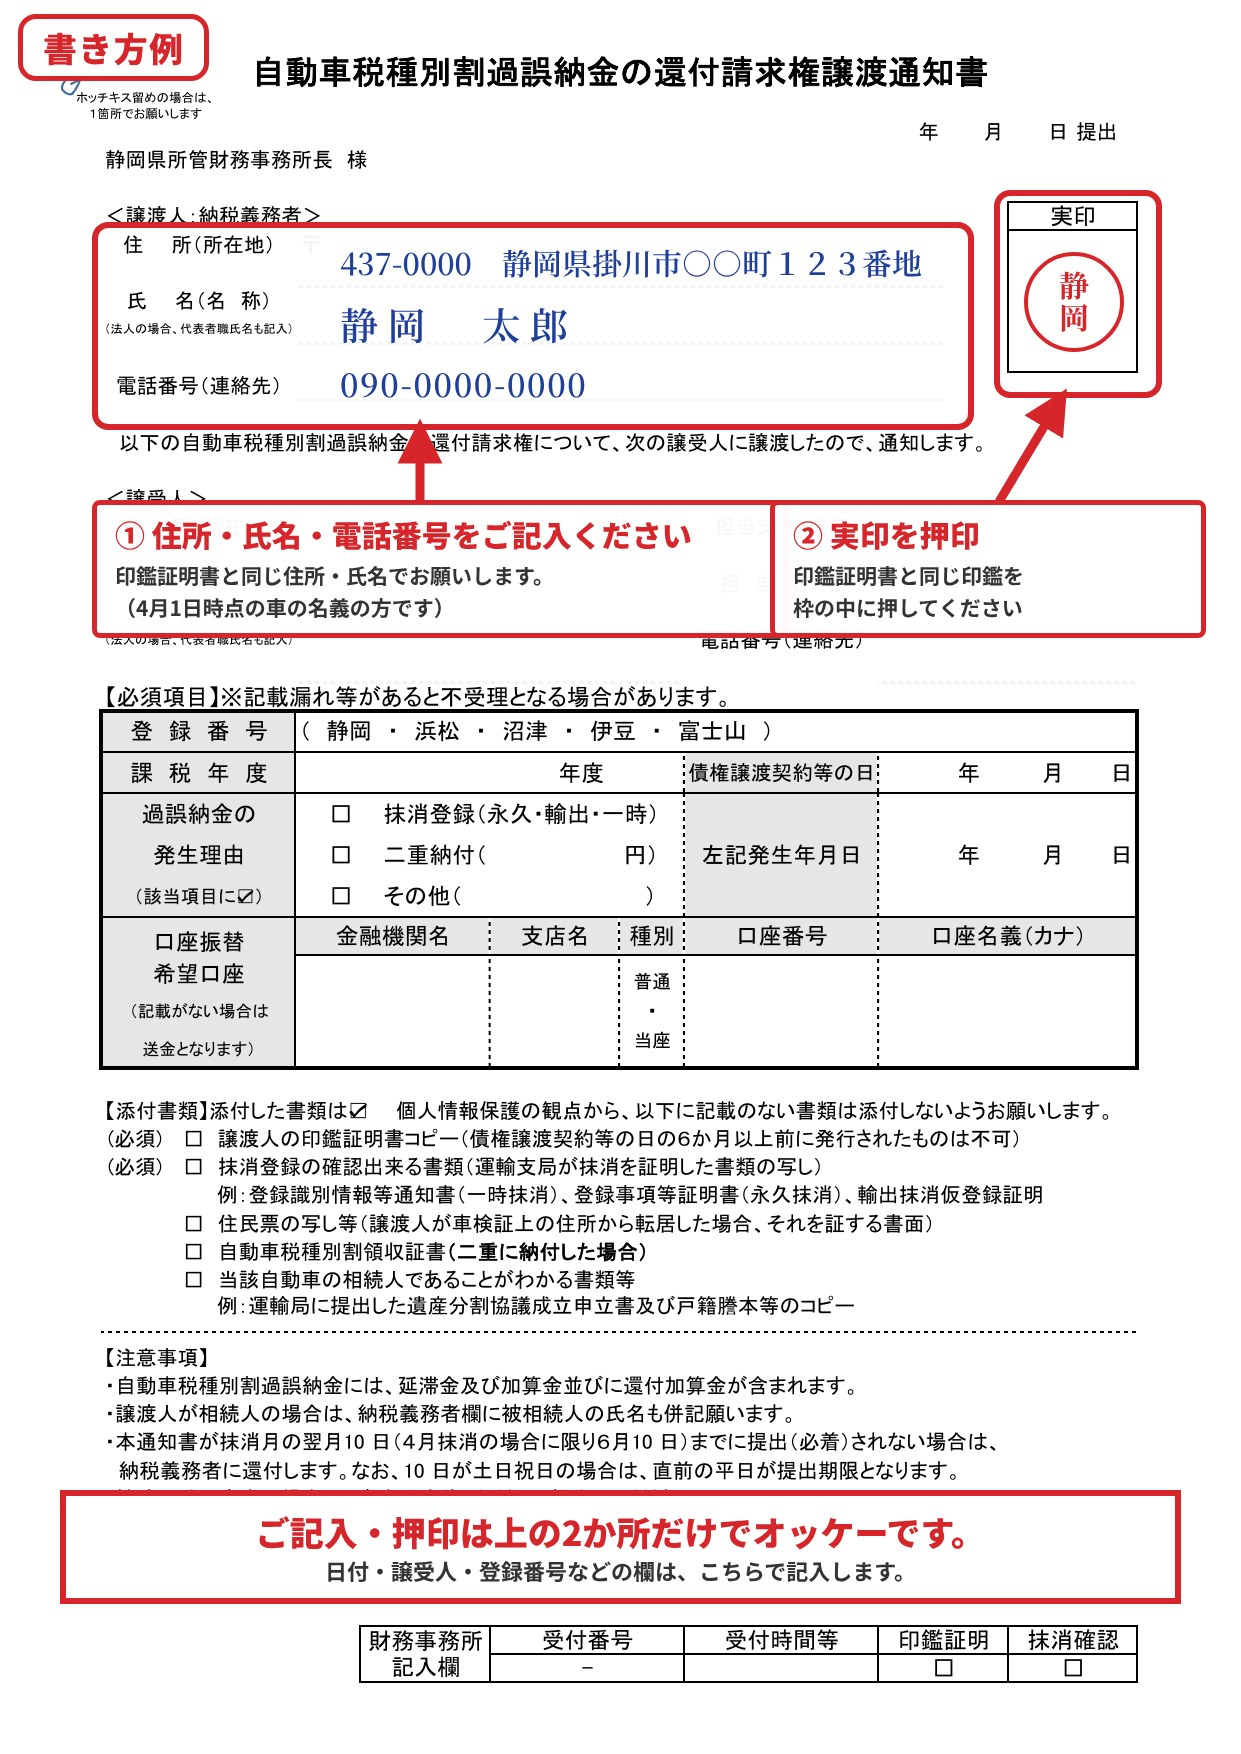
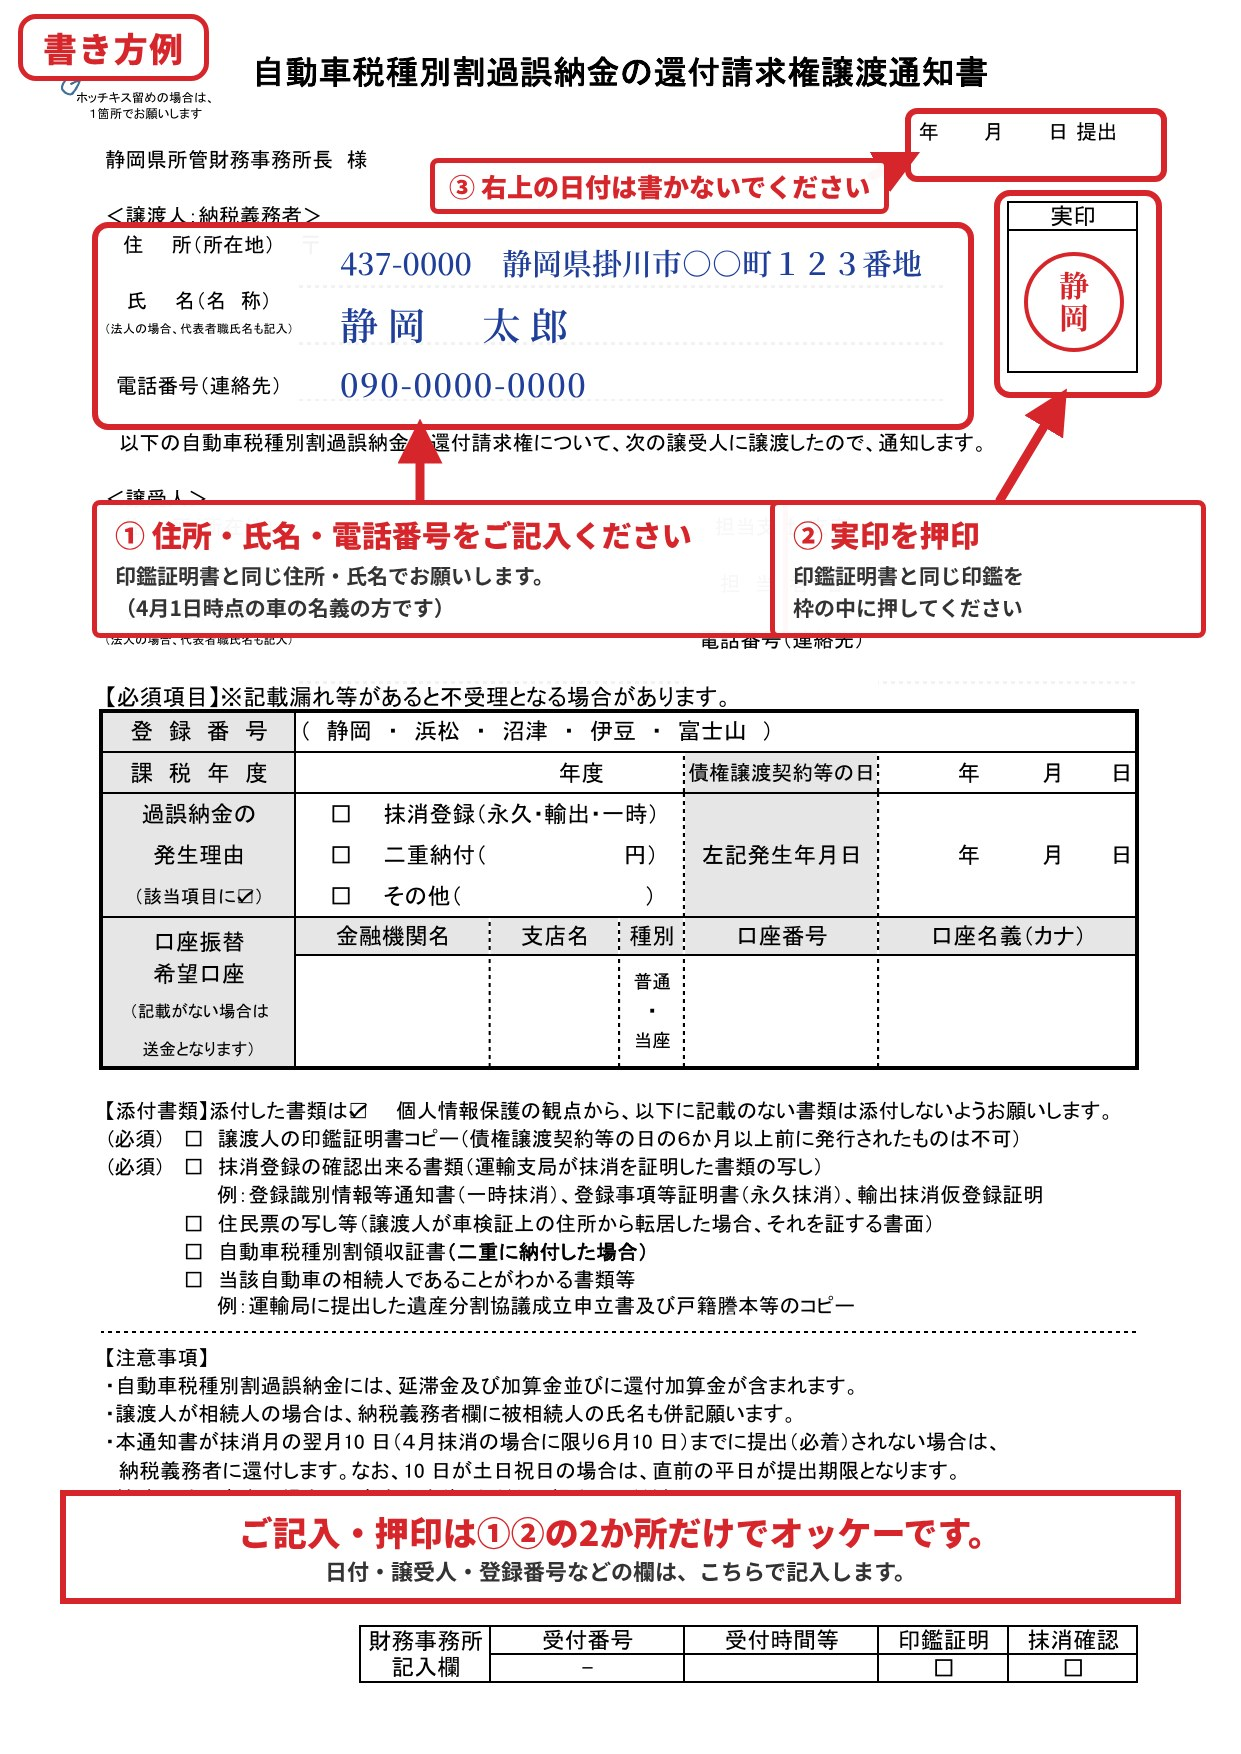
委任状を個人／法人のプルダウンにまとめ、配置図を敷地内・離れてる場合に分割、還付書類（愛知県）の見本追加、還付見本に日付は書かない旨を追記
Claude-Session: https://claude.ai/code/session_019DVAaf5zZXeEhu1cR78BtE

Changed region(s): [[0.3368, 0.0616, 0.9492, 0.1231], [0.1837, 0.862, 0.7961, 0.8928]]

diff --git a/data.js b/data.js
@@ -21,7 +21,7 @@ const COVER = {
   groupMain: "ご返送いただく書類",            // coverGroup の指定がない書類と、上の車庫証明はこちら
   groupObtain: "役所などで取得いただく書類",   // 「役所などで取得」の欄はこちら
   // 「車庫証明はお客様出し」＝はい のとき、返送リストに載せない書類（画面の名前で指定）
-  garageHide: ["車庫申請書（1枚のみ）", "配置図", "自認書", "保管場所使用承諾証明書"],
+  garageHide: ["車庫申請書（1枚のみ）", "配置図（敷地内）", "配置図（離れてる場合）", "自認書", "保管場所使用承諾証明書"],
 };
 
 // =====================================================================
@@ -32,9 +32,8 @@ const COVER = {
 const PRINT_ORDER = [
   "添付書類",                    // 添付書類（ご案内文）
   "振込口座記入用紙",
-  "委任状",
-  "委任状（見本）",
-  "委任状（法人）",
+  "委任状",                      // 個人・法人のプルダウン
+  "委任状（個人）（見本）",
   "委任状（法人）（見本）",
   "譲渡証明書",
   "譲渡証明書（見本）",
@@ -42,10 +41,13 @@ const PRINT_ORDER = [
   "所有権解除依頼書（見本）",
   "還付書類",                    // 都道府県のプルダウン
   "還付書類（静岡県）（見本）",
+  "還付書類（愛知県）（見本）",
   "車庫証明の提出の仕方",
   "車庫申請書（1枚のみ）",
-  "配置図",
-  "配置図 個人宅（見本）",
+  "配置図（敷地内）",
+  "配置図（敷地内）（見本）",
+  "配置図（離れてる場合）",
+  "配置図（離れてる場合）（見本）",
   "自認書",
   "車庫証明（4枚一式）",
   "自認書（見本）",
@@ -87,12 +89,16 @@ const SECTIONS = [
     items: [
       // mihon … 書類と一緒に印刷できる書き方見本（カードに「見本」ボタンが付きます）
       // mihonName … 印刷順（PRINT_ORDER）で使う見本の名前
-      { name: "委任状",                 file: "ininjo.pdf",         mihon: "mihon-ininjo.jpg",         mihonName: "委任状（見本）" },
-      { name: "委任状（法人）",         file: "ininjo.pdf",         mihon: "mihon-ininjo-houjin.jpg",  mihonName: "委任状（法人）（見本）" },
+      // choices … カードの中のプルダウン。頭紙には「委任状（個人）」のように載ります
+      { name: "委任状", choices: [
+        { name: "個人", file: "ininjo.pdf", mihon: "mihon-ininjo.jpg",        mihonName: "委任状（個人）（見本）" },
+        { name: "法人", file: "ininjo.pdf", mihon: "mihon-ininjo-houjin.jpg", mihonName: "委任状（法人）（見本）" },
+      ] },
       { name: "譲渡証明書",             file: "joto.pdf",           mihon: "mihon-joto.jpg",           mihonName: "譲渡証明書（見本）" },
       { name: "車庫申請書（1枚のみ）",   file: "shako-shinsei.pdf" },
       { name: "自認書",                 file: "jinin.pdf",          mihon: "mihon-jinin.jpg",          mihonName: "自認書（見本）" },
-      { name: "配置図",                 file: "haichizu.pdf",       mihon: "mihon-haichizu.jpg",       mihonName: "配置図 個人宅（見本）" },
+      { name: "配置図（敷地内）",       file: "haichizu.pdf",       mihon: "mihon-haichizu.jpg",       mihonName: "配置図（敷地内）（見本）" },
+      { name: "配置図（離れてる場合）", file: "haichizu.pdf",       mihon: "mihon-haichizu-hanare.jpg", mihonName: "配置図（離れてる場合）（見本）" },
       { name: "保管場所使用承諾証明書", file: "shodaku.pdf",        mihon: "mihon-shodaku.jpg",        mihonName: "保管場所使用承諾証明書（見本）" },
       { name: "所有権解除依頼書",       file: "shoyuken-kaijo.pdf", mihon: "mihon-shoyuken-kaijo.png", mihonName: "所有権解除依頼書（見本）" },
     ],
@@ -111,7 +117,7 @@ const SECTIONS = [
     selectLabel: "還付書類",           // カードに表示する名前
     listName: "還付書類（{name}）",    // チェックリストでの表示名
     items: [
-      { group: "東海・北陸・近畿", name: "愛知県",   file: "kanpu-aichi.pdf" },
+      { group: "東海・北陸・近畿", name: "愛知県",   file: "kanpu-aichi.pdf", mihon: "mihon-kanpu-aichi.jpg", mihonName: "還付書類（愛知県）（見本）" },
       { group: "東海・北陸・近畿", name: "静岡県",   file: "kanpu-shizuoka.pdf", default: true, mihon: "mihon-kanpu-shizuoka.jpg", mihonName: "還付書類（静岡県）（見本）" },   // 最初に選ばれる県
       { group: "東海・北陸・近畿", name: "三重県",   file: "kanpu-mie.pdf" },
       { group: "東海・北陸・近畿", name: "岐阜県",   file: "kanpu-gifu.pdf" },

diff --git a/index.html b/index.html
@@ -339,8 +339,8 @@
 <div class="toast" id="toast" role="status" aria-live="polite"></div>
 <div class="peek" id="peek" aria-hidden="true"></div>
 
-<script src="data.js?v=20261109b"></script>
-<script src="attach.js?v=20261109b"></script>
+<script src="data.js?v=20261109c"></script>
+<script src="attach.js?v=20261109c"></script>
 <script>
 (() => {
   const $ = (s) => document.querySelector(s);
@@ -371,8 +371,14 @@
       });
       return;
     }
-    sec.items.forEach((it, ii) =>
-      items.push({
+    sec.items.forEach((it, ii) => it.choices
+      // 書類の中のプルダウン（例：委任状 → 個人／法人）
+      ? items.push({
+        id: si + "-" + ii, sec: sec.title, key: it.name, name: it.name, on: false, copies: 1,
+        inList: sec.checklist !== false, choices: it.choices, pick: 0, withMihon: false,
+        tmpl: it.listName || it.name + "（{name}）",
+      })
+      : items.push({
         id: si + "-" + ii, sec: sec.title, name: it.name, file: it.file, on: false, copies: 1,
         mihon: it.mihon, mihonName: it.mihonName || it.name + "（見本）", withMihon: false,
         inList: sec.checklist !== false,
@@ -672,7 +678,7 @@
   // data.js の PRINT_ORDER の順に並べ替える
   function sortForPrint(list) {
     const order = (typeof PRINT_ORDER !== "undefined" ? PRINT_ORDER : []);
-    const keyOf = (x) => (x.attach || x.choices || x.text ? x.sec : x.name);
+    const keyOf = (x) => (x.key || (x.attach || x.choices || x.text ? x.sec : x.name));
     const rank = (x) => {
       const i = order.indexOf(keyOf(x));
       return i < 0 ? order.length + items.indexOf(x) : i;
